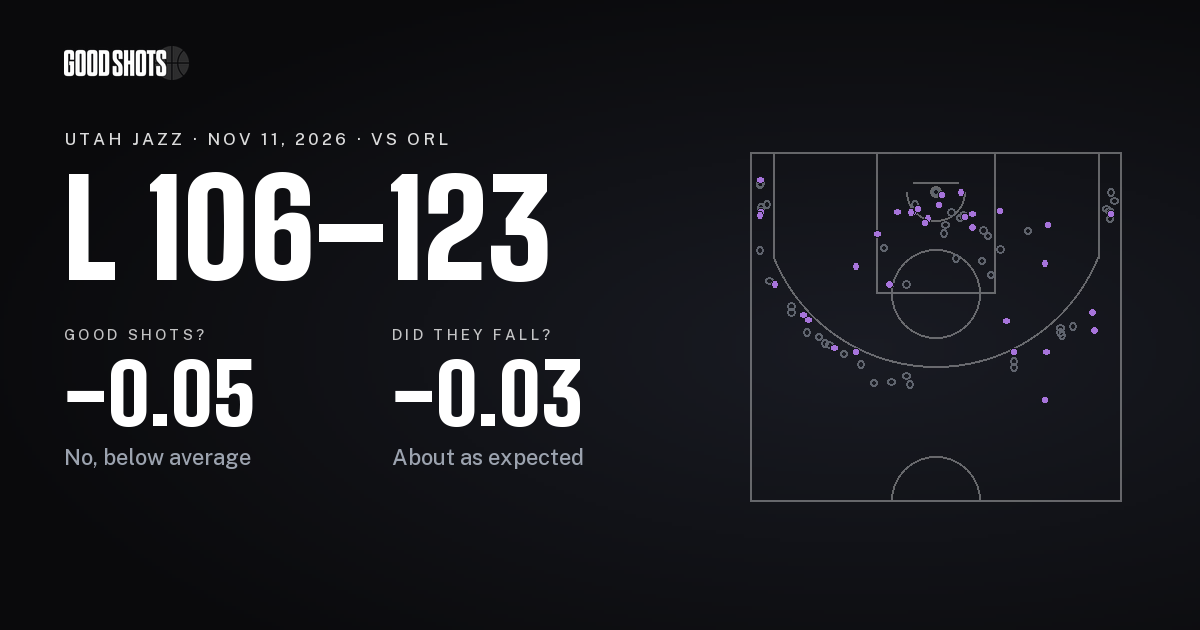
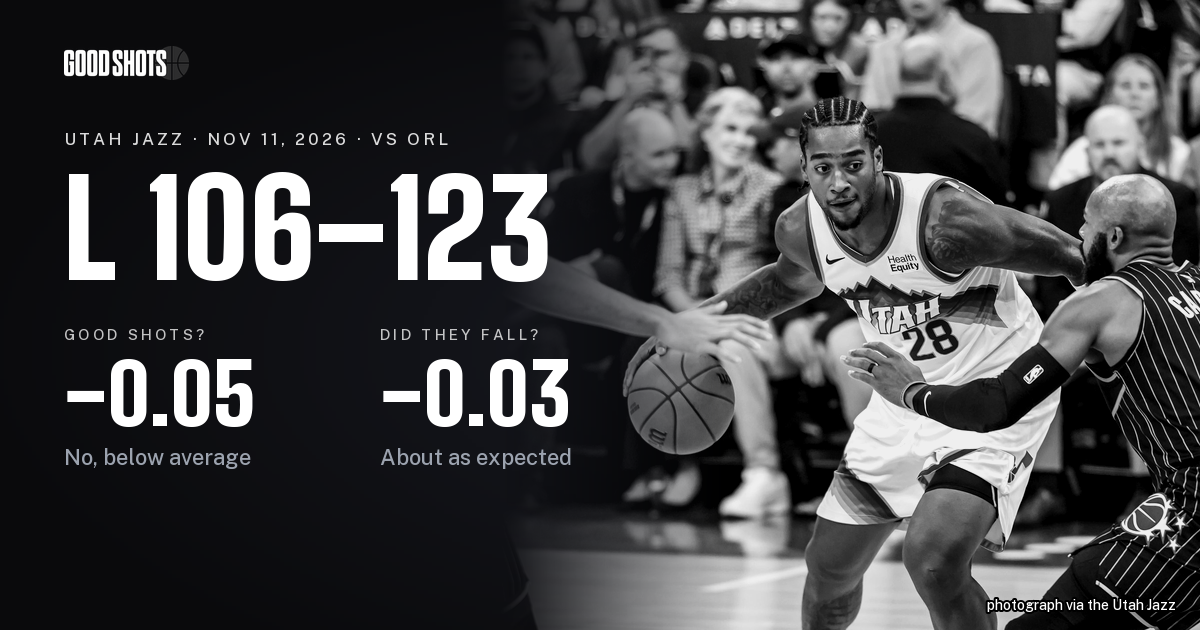
Give the Orlando report card its game photograph
Brice Sensabaugh keeping his dribble low as Jevon Carter reaches across
him, the header of the Jazz's 11-11 Orlando recap (ZMR04178), credited
"photograph via the Utah Jazz" from an empty record. The game is verified
by the opponent in the frame: 11-11 is the Jazz's only Orlando game so
far, and the 2025-12-20 home game against Orlando is ruled out by the
defender (CARTER over a 2, and Jevon Carter is not in that night's box).
The finder's other frame (DSC03877, Markkanen) headed the pre-game injury
update and was passed over: Markkanen did not play 11-11. Focal points
checked at the 375px poster and the 1440px wide panel with its left fade;
the share card redrawn with the photograph.

diff --git a/src/teams/gamePhotos.ts b/src/teams/gamePhotos.ts
@@ -109,6 +109,13 @@ export const GAME_PHOTOS: Readonly<Record<string, GamePhoto>> = {
     imagePosition: '84% 40%',
     imagePositionWide: '50% 22%',
   },
+  '2026-11-11-orl': {
+    imagePath: 'img/games/2026-11-11-orl.jpg',
+    imageAlt: 'Brice Sensabaugh keeps his dribble low as an Orlando defender reaches across him, in the white Jazz number 28 jersey',
+    imageCredit: 'photograph via the Utah Jazz',
+    imagePosition: '40% 40%',
+    imagePositionWide: '40% 30%',
+  },
 }
 
 export function gamePhotoOf(slug: string): GamePhoto | undefined {

diff --git a/docs/image-credits.md b/docs/image-credits.md
@@ -413,3 +413,26 @@ via the Utah Jazz".
   `.../2026/11/DSC05158.jpg` (Peterson, 22, purple, bringing the ball up
   with no opponent in frame), is 152 frames earlier from the same camera
   and was passed over because nothing in it proves its game.
+
+The photo finder listed two team frames for 11-11 after the game-night
+session that published it (2026-11-11), and the one that shows its
+opponent was picked 2026-11-12. Pulled 2026-11-12 by `game:photo` and
+retained in `data/game-sources/2026-11-11-orl.jpg`; the record carries an
+empty credit and the file no embedded metadata, so it is credited
+"photograph via the Utah Jazz".
+
+- `public/img/games/2026-11-11-orl.jpg`, Brice Sensabaugh (28, white)
+  keeping his dribble low as Jevon Carter (2, Orlando's black pinstripes)
+  reaches across him, a second Orlando player's arm at the left edge: the
+  header of the Jazz's 11-11 Orlando recap,
+  `cdn.nba.com/teams/uploads/sites/1610612762/2026/11/ZMR04178.jpg`
+  (4521x3148). **The game is verified by the opponent**: 11-11 is the
+  Jazz's only game against Orlando so far, and the Jazz played no Magic
+  preseason game (Denver, San Antonio, Phoenix). The one look-alike, the
+  2025-12-20 home game against Orlando, is ruled out by the defender: the
+  nameplate reads "CARTER" over a 2, Jevon Carter's number on the NBA's
+  Magic roster, and Jevon Carter is not in that night's box score (the
+  only Carter in it is Wendell Carter Jr.). The finder's other frame,
+  `.../2026/11/DSC03877.jpg` (Markkanen, 23, white, shooting), headed the
+  pre-game Markkanen injury update and was passed over: Markkanen is not
+  in the 11-11 box score.
